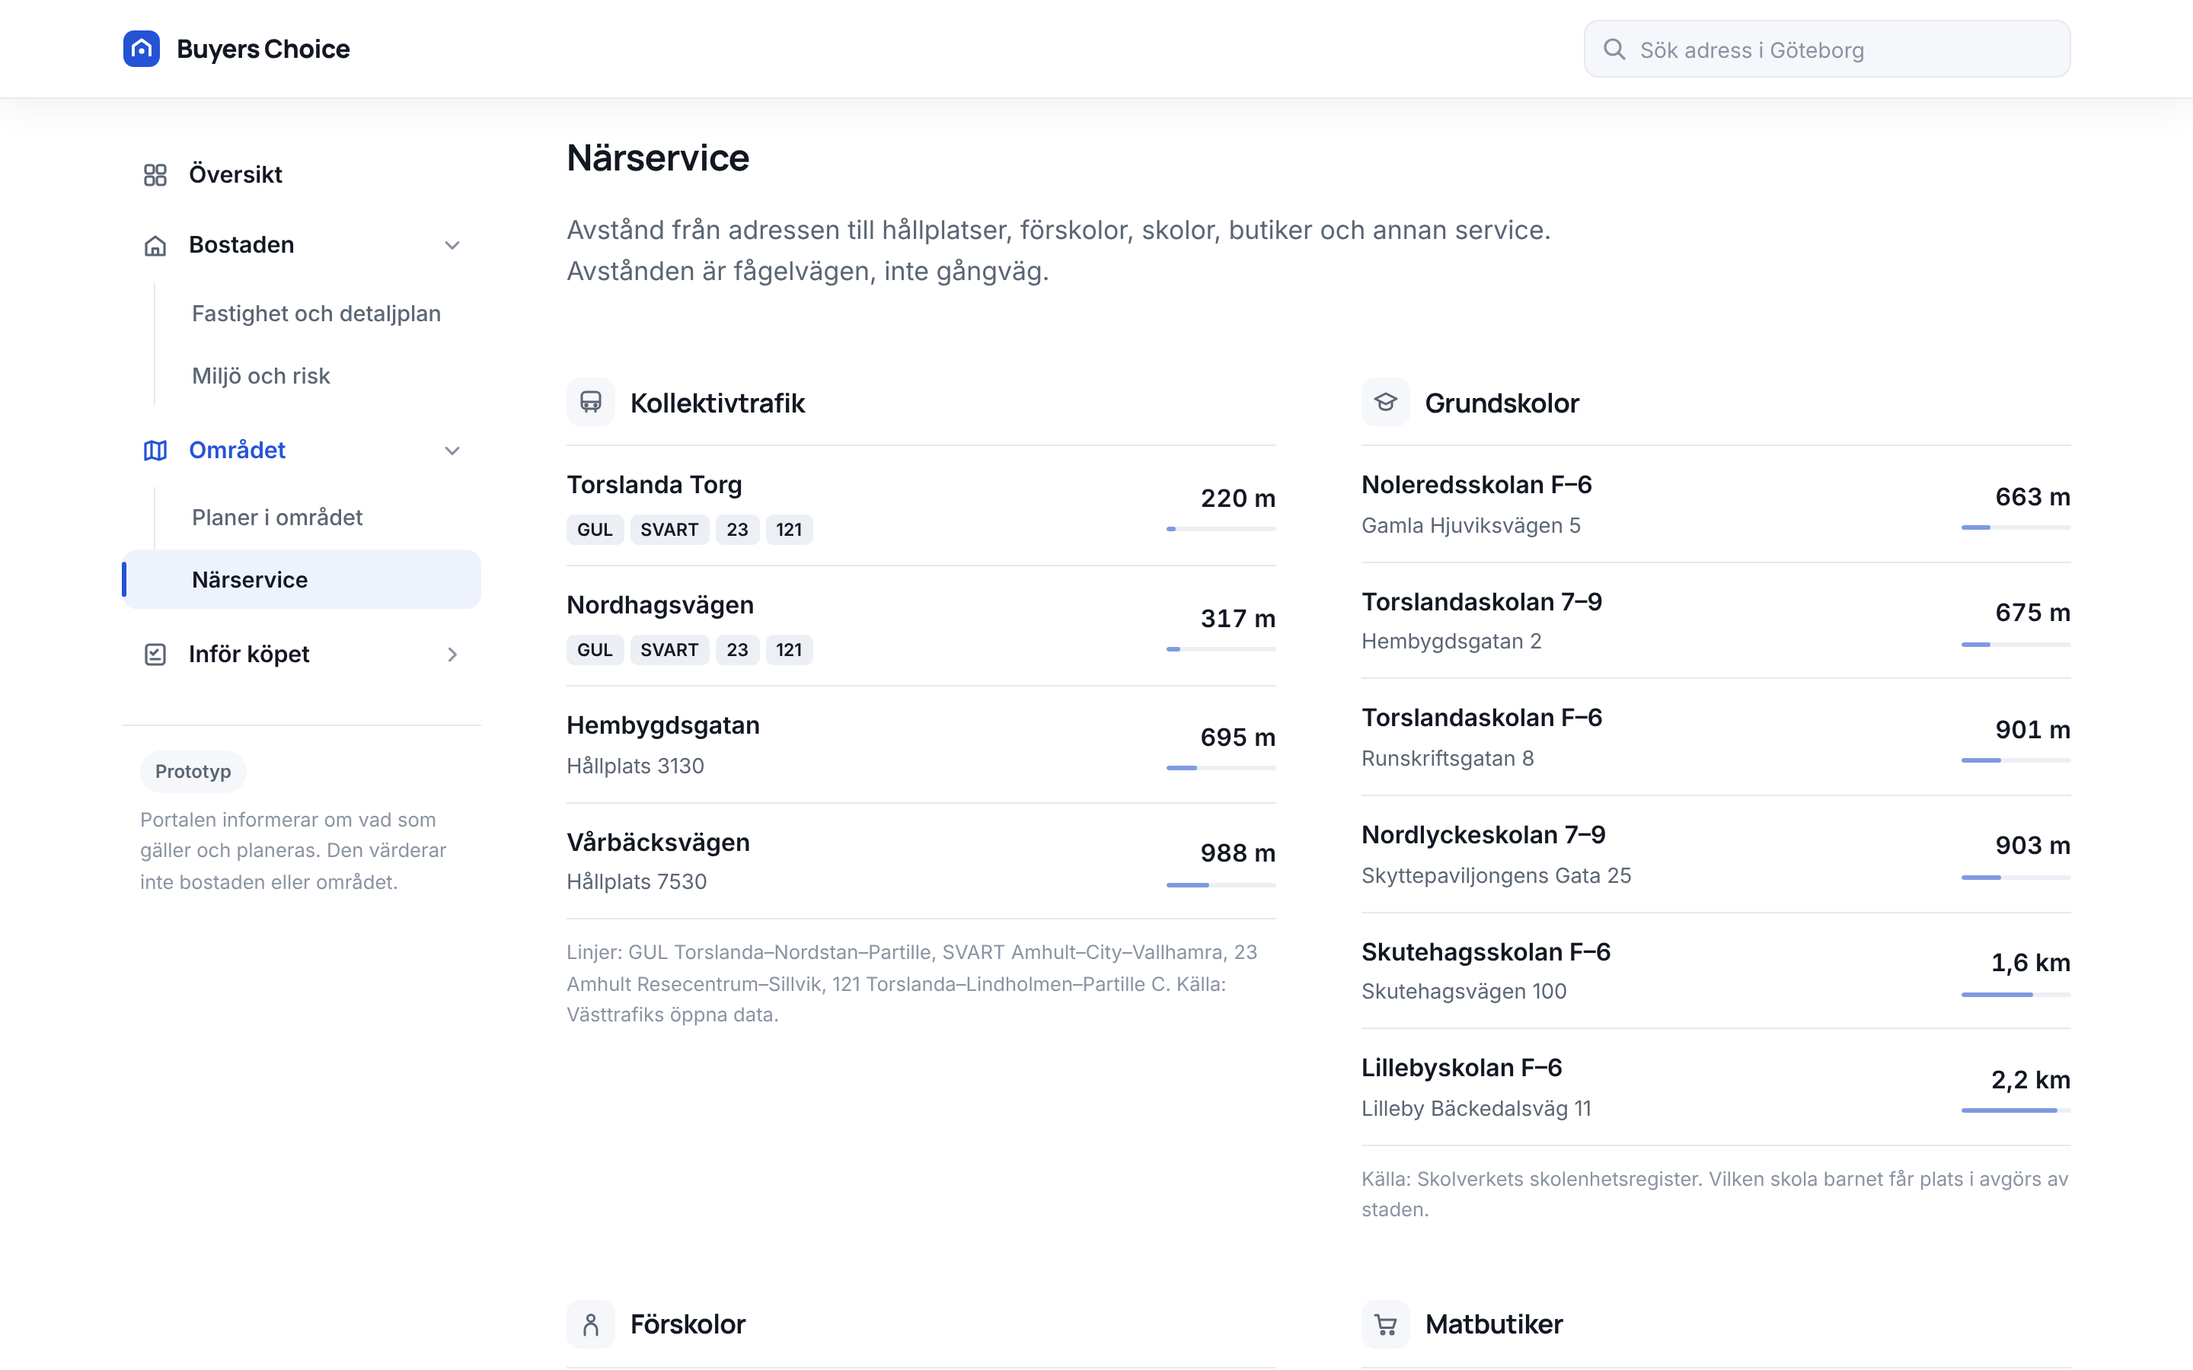
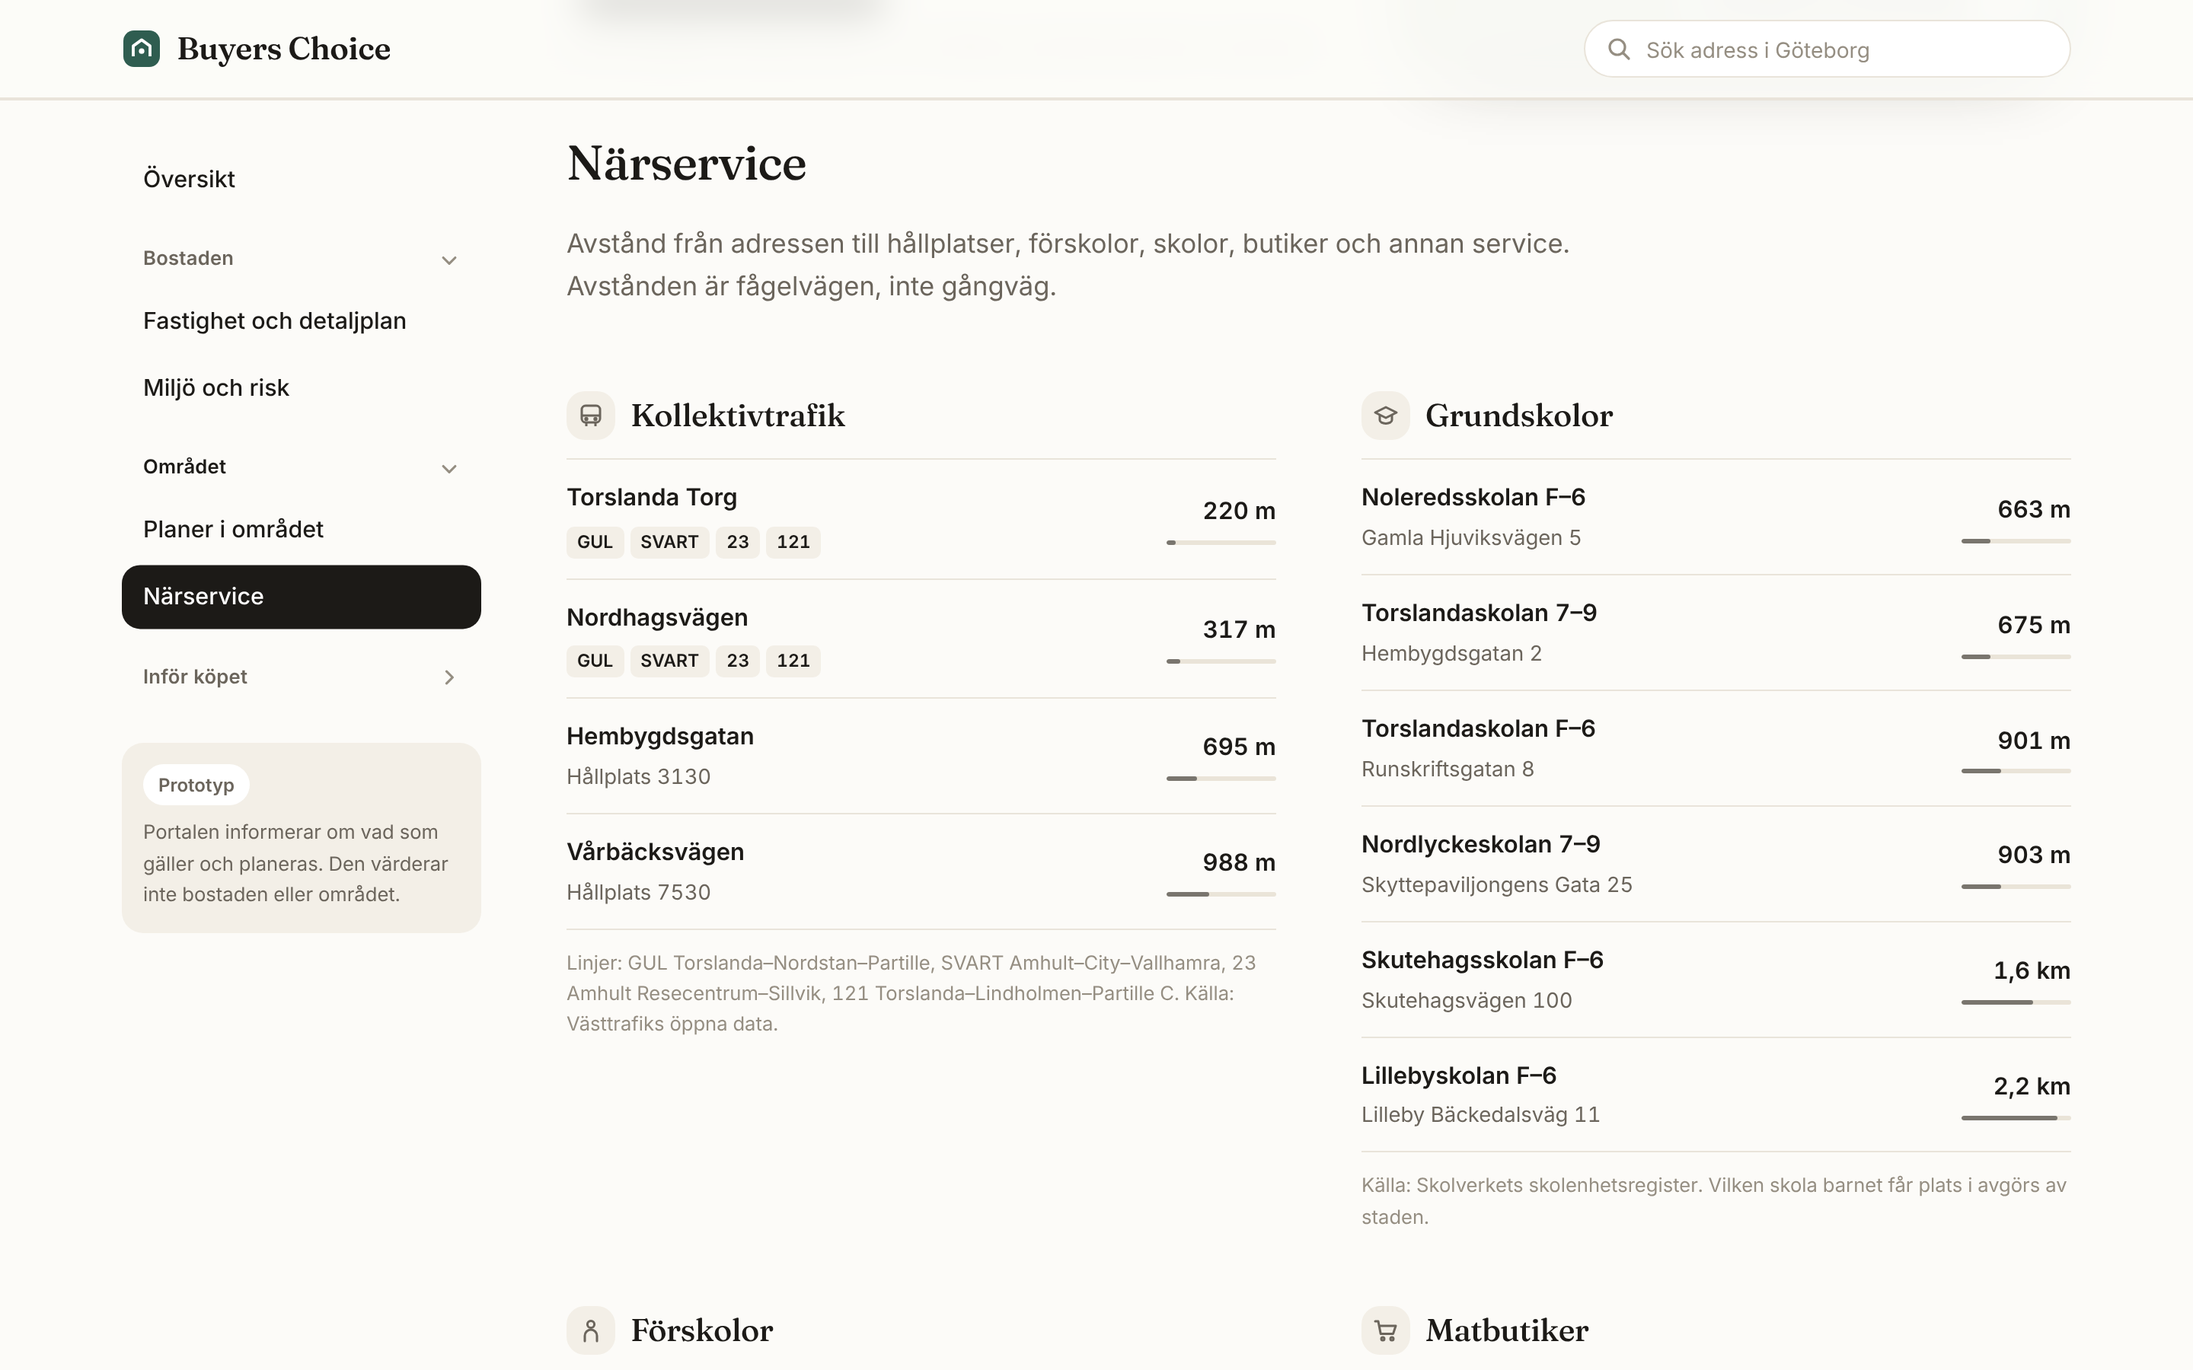
Nytt tema: Varm redaktionell
Benvit bakgrund, Fraunces-rubriker, rundade kort i bento-rutnät,
mörk menymarkering och rundade knappar. Bostadshuvudet visar nyckeltal
som stora siffror och annonsbilden som platshållare till höger.
Skärmbilderna i docs/screenshots är tagna om.

Claude-Session: https://claude.ai/code/session_01QvUrmS1aEjK2wY4zhTdUsa

diff --git a/portal/index.html b/portal/index.html
@@ -3,7 +3,7 @@
 <meta name="claude:viewport-fit-sides" content="cover">
 <link rel="preconnect" href="https://fonts.googleapis.com">
 <link rel="preconnect" href="https://fonts.gstatic.com" crossorigin>
-<link rel="stylesheet" href="https://fonts.googleapis.com/css2?family=Inter:wght@400;500;600&family=Manrope:wght@600;700;800&display=swap">
+<link rel="stylesheet" href="https://fonts.googleapis.com/css2?family=Fraunces:opsz,wght@9..144,400;9..144,500;9..144,600&family=Inter:wght@400;500;600&display=swap">
 <style>
 /* Layout: vit sida, smal toppmeny med flikar. Varje vy har en tydlig uppgift: Översikt = i korthet + karta med planlista; övriga vyer = rubrik, text, tabell. Medvetet bara ljust tema. */
 :root{
@@ -489,6 +489,158 @@ section[data-bview].enter{animation:viewIn .35s var(--ease) both}
 .envstrip .v{font-family:var(--f-display);font-size:1.3rem;font-weight:800;letter-spacing:-.02em;font-variant-numeric:tabular-nums}
 .envstrip .s{font-size:.86rem;color:var(--muted)}
 @media (max-width:820px){.envstrip{grid-template-columns:repeat(2,minmax(0,1fr))}.envstrip a:nth-child(3){padding-left:0;border-left:0}.envstrip a:nth-child(n+3){border-top:1px solid var(--line)}}
+
+/* ================= Tema: Varm redaktionell (2026-11-26) ================= */
+:root{
+  --bg:#FCFBF8; --card:#FFFFFF; --subtle:#F3EFE7; --subtle-2:#EAE4D8;
+  --fg:#1C1A17; --muted:#6B655C; --faint:#958E82; --line:#E9E4DA;
+  --accent:#2F5D50; --accent-hover:#244A40; --accent-soft:#E4EDE8;
+  --ok:#2F5D50; --ok-soft:#E4EDE8; --c-plan:#3559C7; --c-infra:#2C7A7B; --c-ongoing:#B7791F; --c-home:#1C1A17;
+  --f-display:"Fraunces",Georgia,"Times New Roman",serif;
+  --r-card:20px; --shadow-card:0 1px 2px rgb(28 26 23 / .04);
+}
+body{font-size:15.5px;font-variant-numeric:tabular-nums}
+h1,h2,h3{font-weight:500;letter-spacing:-.015em}
+h1{font-size:3.6rem;line-height:1.04}
+h2{font-size:2rem;line-height:1.15}
+h3{font-size:1.3rem}
+.eyebrow,th,.nearstrip .nk,.envstrip .k{text-transform:none;letter-spacing:0;font-size:.84rem;font-weight:500;color:var(--muted)}
+th{font-size:.82rem}
+a{color:var(--accent)}
+.lead{font-size:1.08rem}
+
+/* sidhuvud */
+header{background:rgb(252 251 248 / .86);backdrop-filter:saturate(1.4) blur(12px);-webkit-backdrop-filter:saturate(1.4) blur(12px)}
+header.scrolled{box-shadow:0 1px 0 var(--line)}
+.logo{font-family:var(--f-display);font-weight:600;font-size:1.3rem;letter-spacing:-.01em}
+.logo svg rect{fill:var(--accent)}
+.search input,.bigsearch input{border-radius:999px;background:var(--card);border-color:var(--line)}
+.search input{padding-left:40px}.search svg{left:15px}
+.search input:focus,.bigsearch input:focus{border-color:var(--fg);box-shadow:0 0 0 4px rgb(28 26 23 / .06)}
+.menu-btn{border-radius:999px;background:var(--card)}
+
+/* vänstermeny: textmeny, mörk markering */
+.nav-ico{display:none}
+.side{padding-top:32px}
+.sidenav .ind{background:var(--fg);border-radius:12px}
+.sidenav .ind::before{display:none}
+.nav-top,.grp-h{padding:9px 14px;border-radius:12px;font-weight:500;font-size:.95rem}
+.nav-top[aria-current="page"]{color:#fff}
+.grp.has-current .grp-h{color:var(--fg)}
+.grp-h{font-size:.8rem;font-weight:600;color:var(--muted);margin-top:10px}
+.grp-h .lbl{letter-spacing:.01em}
+.grp-b ul{margin:0;padding:0;border-left:0}
+.grp-b a{padding:9px 14px;border-radius:12px;font-size:.95rem;color:var(--fg)}
+.grp-b a[aria-current="page"]{color:#fff;font-weight:500}
+.nav-top:hover,.grp-h:hover,.grp-b a:hover{background:var(--subtle)}
+.nav-top[aria-current="page"]:hover,.grp-b a[aria-current="page"]:hover{background:transparent}
+.side-foot{border-top:0;background:var(--subtle);border-radius:14px;padding:14px;margin:24px 0 0;color:var(--muted)}
+.proto{background:var(--card)}
+
+/* knappar och brickor */
+.btn{border-radius:999px;padding:12px 22px;font-weight:500;background:var(--card)}
+.btn:hover{border-color:#D6CFC2;background:var(--subtle)}
+.btn.primary{background:var(--fg);border-color:var(--fg)}
+.btn.primary:hover{background:#000;border-color:#000}
+.btn.sm{border-radius:999px}
+.tag{background:var(--card);border:1px solid var(--line);color:var(--muted);font-weight:500;font-size:.82rem;padding:5px 12px}
+.tag.full,.tag.real{background:var(--accent-soft);border-color:transparent;color:var(--accent)}
+.tag.calc{background:var(--subtle);border-color:transparent;color:var(--fg)}
+.vbadge{color:var(--accent);background:var(--accent-soft);font-weight:600}
+.ex{background:var(--subtle)}
+.stage{color:#8A5A12;background:#F7EBD3}
+
+/* bostadshuvud: text till vänster, annonsbild till höger */
+.crumbs{padding-top:28px}
+.prop{grid-template-columns:minmax(0,1.15fr) minmax(0,1fr);gap:28px 40px;align-items:stretch;padding-block:16px 48px}
+.prop-info{gap:14px;align-content:start}
+.prop-info .tag{justify-self:start}
+.prop h1{margin-top:6px}
+.facts{font-size:.98rem}
+.stats{display:flex;flex-wrap:wrap;gap:14px 32px;margin:10px 0 4px}
+.stats div{display:grid;gap:2px}
+.stats b{font-family:var(--f-display);font-weight:500;font-size:1.65rem;letter-spacing:-.01em;line-height:1.15}
+.stats span{font-size:.82rem;color:var(--muted)}
+.verified{border:0;background:var(--card);border:1px solid var(--line);border-radius:16px;padding:12px 16px;margin-top:6px}
+.prop-actions{margin-top:6px}
+.photo{aspect-ratio:auto;min-height:340px;border-radius:24px;background:linear-gradient(140deg,#EDE6D8 0%,#E2E5DA 55%,#D7E0DE 100%);box-shadow:0 24px 48px -28px rgb(28 26 23 / .45);display:grid;place-items:center}
+.photo-art{font-family:var(--f-display);font-size:1.4rem;color:#8A8170;letter-spacing:-.01em}
+.photo-note{left:auto;right:16px;bottom:16px;max-width:240px;text-align:left;background:rgb(255 255 255 / .82);backdrop-filter:blur(10px);-webkit-backdrop-filter:blur(10px);border:1px solid rgb(255 255 255 / .9);border-radius:14px;padding:10px 14px;font-weight:500;line-height:1.4}
+.prop.linked{grid-template-columns:260px minmax(0,1fr);align-items:center}
+.prop.linked .photo{min-height:180px}
+@media (max-width:900px){.prop{grid-template-columns:1fr}.photo{min-height:150px}.photo-art{font-size:1.1rem}.prop.linked{grid-template-columns:1fr}}
+
+/* i korthet som bento-kort */
+.brief{grid-template-columns:1.25fr 1fr 1fr;gap:16px;border:0}
+.brief a.item,.brief a.item+a.item{background:var(--card);border:1px solid var(--line);border-radius:var(--r-card);padding:24px;box-shadow:var(--shadow-card);transition:transform .2s var(--ease),box-shadow .2s var(--ease)}
+.brief a.item:hover{transform:translateY(-2px);box-shadow:0 14px 30px -18px rgb(28 26 23 / .35)}
+.brief a.item:first-child{background:var(--fg);border-color:var(--fg)}
+.brief a.item:first-child .big{color:#F4F1EA}
+.brief a.item:first-child p,.brief a.item:first-child .eyebrow{color:#B9B2A5}
+.brief a.item:first-child .more{color:#F4F1EA}
+.brief a.item:nth-child(3){background:var(--subtle);border-color:transparent}
+.brief .big{font-weight:500;font-size:1.6rem;line-height:1.2}
+.brief p{font-size:.95rem}
+.more{font-weight:500;color:var(--fg);text-decoration:underline;text-underline-offset:3px;text-decoration-color:var(--line)}
+@media (max-width:820px){.brief{grid-template-columns:1fr}.brief a.item{padding:22px!important;border:1px solid var(--line)!important}}
+
+/* nyckeltal som kort */
+.figs,.nearstrip,.envstrip{gap:16px;border:0}
+.figs div,.figs div+div,.nearstrip a,.nearstrip a+a,.envstrip a,.envstrip a+a{background:var(--card);border:1px solid var(--line);border-radius:var(--r-card);padding:20px 22px;box-shadow:var(--shadow-card)}
+.nearstrip a:nth-child(even),.envstrip a:nth-child(even),.figs div:nth-child(even){background:var(--subtle);border-color:transparent}
+.figs b,.nearstrip .nd,.envstrip .v,.fee-out b{font-family:var(--f-display);font-weight:500;letter-spacing:-.01em}
+.figs b{font-size:1.7rem}
+.nearstrip .nd{font-size:1.9rem}
+.envstrip .v{font-size:1.5rem}
+.nearstrip a,.envstrip a{transition:transform .2s var(--ease)}
+.nearstrip a:hover,.envstrip a:hover{transform:translateY(-2px)}
+@media (max-width:820px){.figs div,.nearstrip a,.envstrip a{border:1px solid var(--line)!important;padding:18px!important}}
+
+/* karta */
+.mapwrap,.nmap{border-radius:24px;border-color:var(--line);box-shadow:0 24px 48px -32px rgb(28 26 23 / .45)}
+.map .land,.mapwrap,.nmap{fill:#EEEFE8;background:#EEEFE8}
+.map .gplan{fill:var(--c-plan);stroke:var(--c-plan)}
+.map .plbl{fill:var(--c-plan)}
+.map .st,.map .ringl,.nmap .stn,.nmap .rl,.nmap .lb{stroke:#EEEFE8}
+.map-ctl{border-radius:14px}
+.map-tip,.map-toast{border-radius:10px}
+.layers button{background:var(--card)}
+.planlist{border:0;background:var(--card);border:1px solid var(--line);border-radius:var(--r-card);padding:4px 10px}
+.pi:last-child{border-bottom:0}
+
+/* tabeller, rutor och listor */
+th{border-bottom:1px solid var(--fg)}
+.notice,.verify{background:var(--subtle);border-radius:var(--r-card)}
+.tl{background:var(--card);border:1px solid var(--line);border-radius:var(--r-card)}
+.svc .ico{border-radius:12px;background:var(--subtle)}
+.lines span{background:var(--subtle)}
+.aq-bar i,.svc .bar i{background:var(--fg);opacity:.55}
+.steps i.on,.progress .fill,.q input:checked{background:var(--fg);border-color:var(--fg)}
+.fut .full .lnk a{border-radius:999px;color:var(--fg)}
+.fut .full .lnk a:hover{border-color:var(--fg);background:var(--subtle)}
+.fut summary:hover,.pi>button:hover{background:var(--subtle)}
+.ac{border-radius:16px}
+.ac li{border-radius:10px}
+.ac li .t mark{color:var(--accent)}
+.fee input,.fee select,.adlink input{border-radius:12px;background:var(--card)}
+.adlink .ico{border-radius:12px}
+
+/* startsidan */
+.startv{padding-block:80px 96px}
+.hero h1{font-size:4.2rem;line-height:1.02;letter-spacing:-.02em}
+.hero .eyebrow{display:inline-flex;justify-self:start;background:var(--card);border:1px solid var(--line);border-radius:999px;padding:5px 12px}
+.bigsearch input{height:62px;box-shadow:0 18px 40px -24px rgb(28 26 23 / .35)}
+.bigsearch .btn{top:8px;right:8px;height:46px}
+.chip{background:var(--card)}
+.chip b{color:var(--accent)}
+.how{gap:16px;border:0}
+.how div,.how div+div{background:var(--card);border:1px solid var(--line);border-radius:var(--r-card);padding:24px}
+.how div:nth-child(2){background:var(--subtle);border-color:transparent}
+.how .n{font-family:var(--f-display);font-weight:500;font-size:1.6rem;color:var(--fg)}
+@media (max-width:820px){.how div{padding:22px!important;border:1px solid var(--line)!important}}
+
+footer{border-top:1px solid var(--line)}
+@media (max-width:600px){h1{font-size:2.5rem}h2{font-size:1.6rem}.hero h1{font-size:2.6rem}.stats b{font-size:1.35rem}}
 </style>
 
 <header id="top">
@@ -558,22 +710,17 @@ section[data-bview].enter{animation:viewIn .35s var(--ease) both}
 <div id="full-head">
   <nav class="crumbs small" aria-label="Du är här"><a href="#start">Göteborg</a><span>›</span><a href="#oversikt" data-tab-link="oversikt">Torslanda</a><span>›</span><span class="muted">Vildkaprifolen 5</span></nav>
   <div class="prop">
-    <a class="photo" href="https://www.booli.se/bostad/3188597" target="_blank" rel="noopener" aria-label="Öppna annonsen på Booli">
-      <svg viewBox="0 0 320 220" aria-hidden="true">
-        <rect width="320" height="220" fill="var(--subtle-2)"/>
-        <path d="M0 170 C80 150 160 175 320 155 L320 220 L0 220Z" fill="var(--line)"/>
-        <path d="M110 160 V112 L160 76 L210 112 V160Z" fill="var(--bg)" stroke="#C9CFD8" stroke-width="2" stroke-linejoin="round"/>
-        <path d="M100 118 L160 72 L220 118" fill="none" stroke="#B7BEC9" stroke-width="3" stroke-linecap="round" stroke-linejoin="round"/>
-        <rect x="128" y="120" width="18" height="16" rx="2" fill="var(--subtle-2)"/><rect x="174" y="120" width="18" height="16" rx="2" fill="var(--subtle-2)"/><rect x="152" y="132" width="16" height="28" rx="2" fill="var(--subtle-2)"/>
-      </svg>
-      <span class="photo-note">Annonsbild visas här när avtal finns med annonsören</span>
-    </a>
     <div class="prop-info">
-      <div class="eyebrow">Torslanda, Göteborg · Snart till salu</div>
+      <span class="tag">Villa · Torslanda, Göteborg · Snart till salu</span>
       <h1>Vildkaprifolen 5</h1>
-      <div class="price num">6 500 000 kr <span class="muted small">utgångspris</span></div>
       <div class="facts num">
-        <span><b>Villa</b></span><span><b>8</b> rum</span><span><b>232 m²</b> boarea</span><span><b>120 m²</b> biarea</span><span>tomt <b>1 465 m²</b></span><span>byggt <b>1947</b></span>
+        <span><b>8</b> rum</span><span><b>120 m²</b> biarea</span><span>fastighet <b>Röd 138:3</b></span>
+      </div>
+      <div class="stats num">
+        <div><b>6 500 000 kr</b><span>Utgångspris</span></div>
+        <div><b>232 m²</b><span>Boarea</span></div>
+        <div><b>1 465 m²</b><span>Tomt</span></div>
+        <div><b>1947</b><span>Byggår</span></div>
       </div>
       <div class="verified">
         <span class="vbadge"><svg width="14" height="14" viewBox="0 0 14 14" aria-hidden="true"><circle cx="7" cy="7" r="7" fill="currentColor"/><path d="M4 7.2 6 9.1 10 5" fill="none" stroke="#fff" stroke-width="1.7" stroke-linecap="round" stroke-linejoin="round"/></svg>Verifierad fastighet</span>
@@ -585,6 +732,10 @@ section[data-bview].enter{animation:viewIn .35s var(--ease) both}
         <span class="src">Annonsuppgifter hämtade 2026-11-25. Bilder och beskrivning finns i annonsen.</span>
       </div>
     </div>
+    <a class="photo" href="https://www.booli.se/bostad/3188597" target="_blank" rel="noopener" aria-label="Öppna annonsen på Booli">
+      <span class="photo-art" aria-hidden="true">Annonsbild</span>
+      <span class="photo-note">Bilderna finns i annonsen hos annonsören och visas inte här.</span>
+    </a>
   </div>
 </div>
 
@@ -1398,13 +1549,13 @@ function plansFor(a){return a.p.map(i=>{const r=D.P[i];const t=PT[r[1]]||["plan"
   .sort((x,y)=>Object.keys(PGROUP).indexOf(x.grp)-Object.keys(PGROUP).indexOf(y.grp));}
 const near=(arr,a,n,f)=>arr.filter(f||(()=>true)).map(r=>({r,m:Math.round(Math.hypot(r[1]-a.e,r[2]-a.n))})).sort((x,y)=>x.m-y.m).slice(0,n);
 const BC={stop:"#0E8C8C",school:"#7A5AF0",pre:"#C2569B",shop:"#B4691F"};
-const PH_SVG=$(".prop .photo svg").outerHTML;
+const PH_SVG='<span class="photo-art" aria-hidden="true">Annonsbild</span>';
 const NA={};
 let curA=-1;
 function renderAd(){
   const a=D.A[curA],u=getAd(a.l),box=$("#b-ad");
   if(u){const site=siteOf(u);
-    box.innerHTML=`<div class="prop linked"><a class="photo" href="${esc(u)}" target="_blank" rel="noopener" aria-label="Öppna annonsen på ${site}">${PH_SVG}<span class="photo-note">Annonsbild visas här när avtal finns med annonsören</span></a>
+    box.innerHTML=`<div class="prop linked"><a class="photo" href="${esc(u)}" target="_blank" rel="noopener" aria-label="Öppna annonsen på ${site}">${PH_SVG}<span class="photo-note">Bilderna finns i annonsen hos annonsören och visas inte här.</span></a>
       <div class="prop-info"><div class="eyebrow">Kopplad annons · ${site}</div><p class="muted">Pris, bilder och beskrivning finns i annonsen. Vi läser inte av annonsen, den öppnas hos ${site}.</p>
       <div class="prop-actions"><a class="btn primary" href="${esc(u)}" target="_blank" rel="noopener">Se annonsen på ${site} <span class="arr">↗</span></a><button class="linkbtn" type="button" id="ad-rm">Ta bort kopplingen</button></div>
       <span class="src">Kopplingen sparas bara i din webbläsare.</span></div></div>`;

diff --git a/CLAUDE.md b/CLAUDE.md
@@ -19,7 +19,7 @@ En portal som samlar det en bostadsköpare behöver veta om platsen inför visni
 
 ## Design
 
-- Ljust, modernt tema (ljust som standard).
+- Tema "Varm redaktionell" (godkänt 2026-11-26): benvit bakgrund #FCFBF8, sandytor #F3EFE7, text #1C1A17, accent mörkgrön #2F5D50. Rubriker i Fraunces (serif), brödtext i Inter. Rundade kort (20 px) i bento-rutnät, ett mörkt kort för gällande plan, rundade knappar. Bara ljust tema.
 - Vänstermeny med grupperade rubriker (t.ex. Bostaden, Området, Inför köpet). På mobil ersätts den av en meny i sidhuvudet.
 - Genomarbetat, funktionellt, lätt att förstå och professionellt. Inte plottrigt.
 
